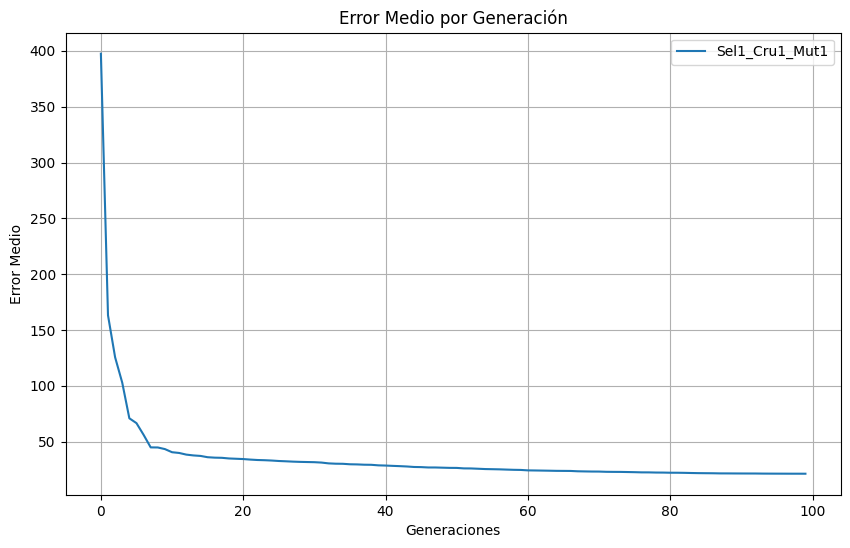
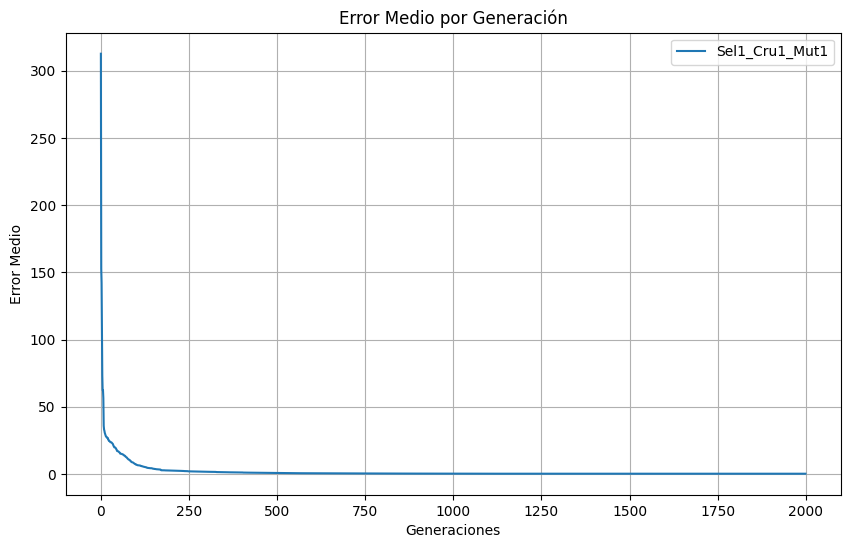
Dos graficas mas y aumento de generaciones

diff --git a/algoritmo.py b/algoritmo.py
@@ -23,6 +23,9 @@ def algoritmo_genetico(n_generaciones, tamaño_poblacion, prob_cruce, prob_mutac
     # Estadísticas por generación
     historico_mejores = []
     historico_promedios = []
+    population_size = []
+    cruces= []
+    mutaciones= []
 
     # Registro del mejor individuo global
     best_global = None
@@ -57,27 +60,36 @@ def algoritmo_genetico(n_generaciones, tamaño_poblacion, prob_cruce, prob_mutac
         else:
             raise ValueError("Opción de selección no válida")
 
+        cruce= 0
         # Cruce
         if op_cruce == 1:
-            hijos = cr.cruce_uniforme(padres, prob_cruce)
+            hijos, cruce = cr.cruce_uniforme(padres, prob_cruce)
+            cruces.append(cruce)
         elif op_cruce == 2:
-            hijos = cr.cruce_un_punto(padres, prob_cruce)
+            hijos, cruce = cr.cruce_un_punto(padres, prob_cruce)
+            cruces.append(cruce)
         elif op_cruce == 3:
-            hijos = cr.cruce_blx(padres, prob_cruce)
+            hijos, cruce = cr.cruce_blx(padres, prob_cruce)
+            cruces.append(cruce)
         elif op_cruce == 4:
-            hijos = cr.cruce_aritmetico_simple(padres, prob_cruce)
+            hijos, cruce = cr.cruce_aritmetico_simple(padres, prob_cruce)
+            cruces.append(cruce)
         else:
             raise ValueError("Opción de cruce no válida")
 
         # Mutación adaptativa
         prob_mut_actual = prob_mutacion * (1 - gen / n_generaciones)
 
+        mut= 0
         if op_mutacion == 1:
-            hijos_mutados = mt.mutacion_gaussiana(hijos, prob_mut_actual)
+            hijos_mutados, mut = mt.mutacion_gaussiana(hijos, prob_mut_actual)
+            mutaciones.append(mut)
         elif op_mutacion == 2:
-            hijos_mutados = mt.mutacion_intercambio(hijos, prob_mut_actual)
+            hijos_mutados, mut = mt.mutacion_intercambio(hijos, prob_mut_actual)
+            mutaciones.append(mut)
         elif op_mutacion == 3:
-            hijos_mutados = mt.mutacion_uniforme(hijos, prob_mut_actual)
+            hijos_mutados, mut = mt.mutacion_uniforme(hijos, prob_mut_actual)
+            mutaciones.append(mut)
         else:
             raise ValueError("Opción de mutación no válida")
 
@@ -97,10 +109,12 @@ def algoritmo_genetico(n_generaciones, tamaño_poblacion, prob_cruce, prob_mutac
         # Actualizar población
         population = hijos_mutados
 
+        population_size.append(len(population))
+
     # Resultado final: usar el mejor individuo global
     print("\nMejor individuo encontrado globalmente:")
     print(f"Coeficientes: {np.round(best_global, 4)}")
     print(f"Error: {best_global_fit:.5f}")
 
     # Devolver estadísticas por si quieres graficar
-    return best_global, historico_mejores, historico_promedios
+    return best_global, historico_mejores, historico_promedios, population_size, cruces, mutaciones

diff --git a/operadores/cruce.py b/operadores/cruce.py
@@ -2,25 +2,29 @@ import numpy as np
 
 def cruce_uniforme(padres, prob_cruce):
     hijos = []
+    cruces= 0
     for i in range(0, len(padres), 2):
         p1 = padres[i]
         p2 = padres[i+1]
         if np.random.rand() < prob_cruce:
+            cruces+= 1
             mask = np.random.rand(len(p1)) < 0.5
             hijo1 = np.where(mask, p1, p2)
             hijo2 = np.where(mask, p2, p1)
         else:
             hijo1, hijo2 = p1.copy(), p2.copy()
         hijos.extend([hijo1, hijo2])
-    return hijos
+    return hijos, cruces
 
 
 def cruce_un_punto(padres, prob_cruce, pto=4):
     hijos = []
+    cruces= 0
     for i in range(0, len(padres), 2):
         p1 = padres[i]
         p2 = padres[i+1]
         if np.random.rand() < prob_cruce:
+            cruces+= 1
             hijo1, hijo2 = [], []  # Inicializar las listas de hijos correctamente
             
             for j in range(0, len(p1)):
@@ -34,16 +38,18 @@ def cruce_un_punto(padres, prob_cruce, pto=4):
             hijo1, hijo2 = p1.copy(), p2.copy()
 
         hijos.extend([hijo1, hijo2])
-    return hijos
+    return hijos, cruces
 
 
 
 def cruce_blx(padres, prob_cruce, alpha=0.1):
     hijos = []
+    cruces= 0
     for i in range(0, len(padres), 2):
         p1 = padres[i]
         p2 = padres[i+1]
         if np.random.rand() < prob_cruce:
+            cruces+= 1
             hijo1, hijo2 = [], []  # Inicialización de hijo1 y hijo2
             
             for j in range(0, len(p1)):
@@ -64,16 +70,18 @@ def cruce_blx(padres, prob_cruce, alpha=0.1):
             hijo1, hijo2 = p1.copy(), p2.copy()
 
         hijos.extend([hijo1, hijo2])
-    return hijos
+    return hijos, cruces
 
 
 
 def cruce_aritmetico_simple(padres, prob_cruce):
     hijos = []
+    cruces= 0
     for i in range(0, len(padres), 2):
         p1 = padres[i]
         p2 = padres[i+1]
         if np.random.rand() < prob_cruce:
+            cruces+= 1
             hijo1 = []
             for j in range(0, len(p1)):
                 hijo1.append((p1[j] + p2[j]) / 2)
@@ -85,4 +93,4 @@ def cruce_aritmetico_simple(padres, prob_cruce):
             hijo1, hijo2 = p1.copy(), p2.copy()
 
         hijos.extend([hijo1, hijo2])
-    return hijos
+    return hijos, cruces

diff --git a/operadores/mutacion.py b/operadores/mutacion.py
@@ -1,32 +1,38 @@
 import numpy as np
 
 def mutacion_gaussiana(hijos, prob_mutacion, sigma=0.1):
+    mut= 0
     for hijo in hijos:
         for i in range(len(hijo)):
             if np.random.rand() < prob_mutacion:
+                mut+= 1
                 hijo[i] += np.random.normal(0, sigma)
-    return hijos
+    return hijos, mut
 
 
 def mutacion_intercambio(hijos, prob_mutacion):
+    mut= 0
     for hijo in hijos:
         for i in range(len(hijo)):
             if np.random.rand() < prob_mutacion:
+                mut+= 1
                 c1 = np.random.randint(0, len(hijo))  # Cambié 9 por len(hijo)
                 c2 = np.random.randint(0, len(hijo))  # Cambié 9 por len(hijo)
                 # Se escoge un valor aleatorio en el intervalo [-10.0, 10.0]
                 aux = hijo[c1]
                 hijo[c1] = hijo[c2]
                 hijo[c2] = aux
-    return hijos
+    return hijos, mut
 
 
 def mutacion_uniforme(hijos, prob_mutacion, valor_min=-10.0, valor_max=10.0):
+    mut= 0
     for hijo in hijos:
         for i in range(len(hijo)):
             if np.random.rand() < prob_mutacion:
-                cromosoma = np.random.randint(0, len(hijo))  # Cambié 9 por len(hijo)
+                mut+= 1
+                gen = np.random.randint(0, len(hijo))  # Cambié 9 por len(hijo)
                 # Se escoge un valor aleatorio en el intervalo [-10.0, 10.0]
                 valor = np.random.uniform(valor_min, valor_max)
-                hijo[cromosoma] = valor
-    return hijos
+                hijo[gen] = valor
+    return hijos, mut

diff --git a/graficas.py b/graficas.py
@@ -123,3 +123,42 @@ def plot_real_vs_predicho(x_vals, y_true, y_pred, save_path=None):
         plt.close()
     else:
         plt.show()
+
+def graficar_poblacion_por_generacion(poblaciones, save_path=None):
+    generaciones = list(range(1, len(poblaciones) + 1))
+    
+    plt.figure(figsize=(10, 6))
+    plt.plot(generaciones, poblaciones, marker='o', linestyle='-', color='blue')
+    plt.title('Evolución del Tamaño de Población por Generación')
+    plt.xlabel('Generación')
+    plt.ylabel('Cantidad de Individuos')
+    plt.grid(True)
+    plt.tight_layout()
+    if save_path:
+        plt.savefig(save_path, bbox_inches='tight')
+        plt.close()
+    else:
+        plt.show()
+
+
+def graficar_cruces_y_mutaciones(cruces, mutaciones, save_path=None):
+    generaciones = list(range(1, len(cruces) + 1))
+    
+    plt.figure(figsize=(10, 6))
+    
+    # Líneas con menor grosor y color más estilizado
+    plt.plot(generaciones, cruces, marker='o', linestyle='-', linewidth=1.5, color='#1f77b4', label='Cruces')
+    plt.plot(generaciones, mutaciones, marker='s', linestyle='--', linewidth=1.5, color='#ff7f0e', label='Mutaciones')
+    
+    plt.title('Cruces y Mutaciones por Generación')
+    plt.xlabel('Generación')
+    plt.ylabel('Cantidad')
+    plt.legend()
+    plt.grid(True, linestyle=':', linewidth=0.5)
+    plt.tight_layout()
+    
+    if save_path:
+        plt.savefig(save_path, bbox_inches='tight')
+        plt.close()
+    else:
+        plt.show()

diff --git a/main.py b/main.py
@@ -92,8 +92,8 @@ y_vals = np.array([
 ])
 
 # --- Configuración de ejecución ---
-n_ejecuciones = 10
-n_generaciones = 100
+n_ejecuciones = 3
+n_generaciones = 2000
 tamaño_poblacion = 30
 prob_cruce = 0.9
 prob_mutacion = 0.1
@@ -104,11 +104,14 @@ fitness_final = []
 tiempos = []
 generaciones_convergencia = []
 mejores_individuos = []
+population_size= []
+cruces= []
+mutaciones= []
 
 # --- Ejecuciones múltiples ---
 for ejec in range(n_ejecuciones):
     start = time.time()
-    best_ind, historico_mejores, historico_promedios = algoritmo_genetico(
+    best_ind, historico_mejores, historico_promedios, population_size, cruces, mutaciones = algoritmo_genetico(
         n_generaciones=n_generaciones,
         tamaño_poblacion=tamaño_poblacion,
         prob_cruce=prob_cruce,
@@ -144,6 +147,8 @@ os.makedirs(directorio, exist_ok=True)
 gr.plot_mejor_fitness({nombre_combo: resultados_fitness}, save_path=directorio+"/mejor_fitness.png")
 gr.plot_boxplot_fitness_final({nombre_combo: fitness_final}, save_path=directorio+"/boxplot_fitness_final.png")
 gr.plot_tiempos({nombre_combo: tiempos}, save_path=directorio+"/tiempos_ejecucion.png")
+gr.graficar_poblacion_por_generacion(population_size, save_path=directorio+"/tamano_poblacion.png")
+gr.graficar_cruces_y_mutaciones(cruces, mutaciones, save_path=directorio+"/numero_cruces_y_mutaciones.png")
 
 # Opcional: Real vs Predicho con mejor individuo promedio
 mejor_individuo = mejores_individuos[np.argmin(fitness_final)]
